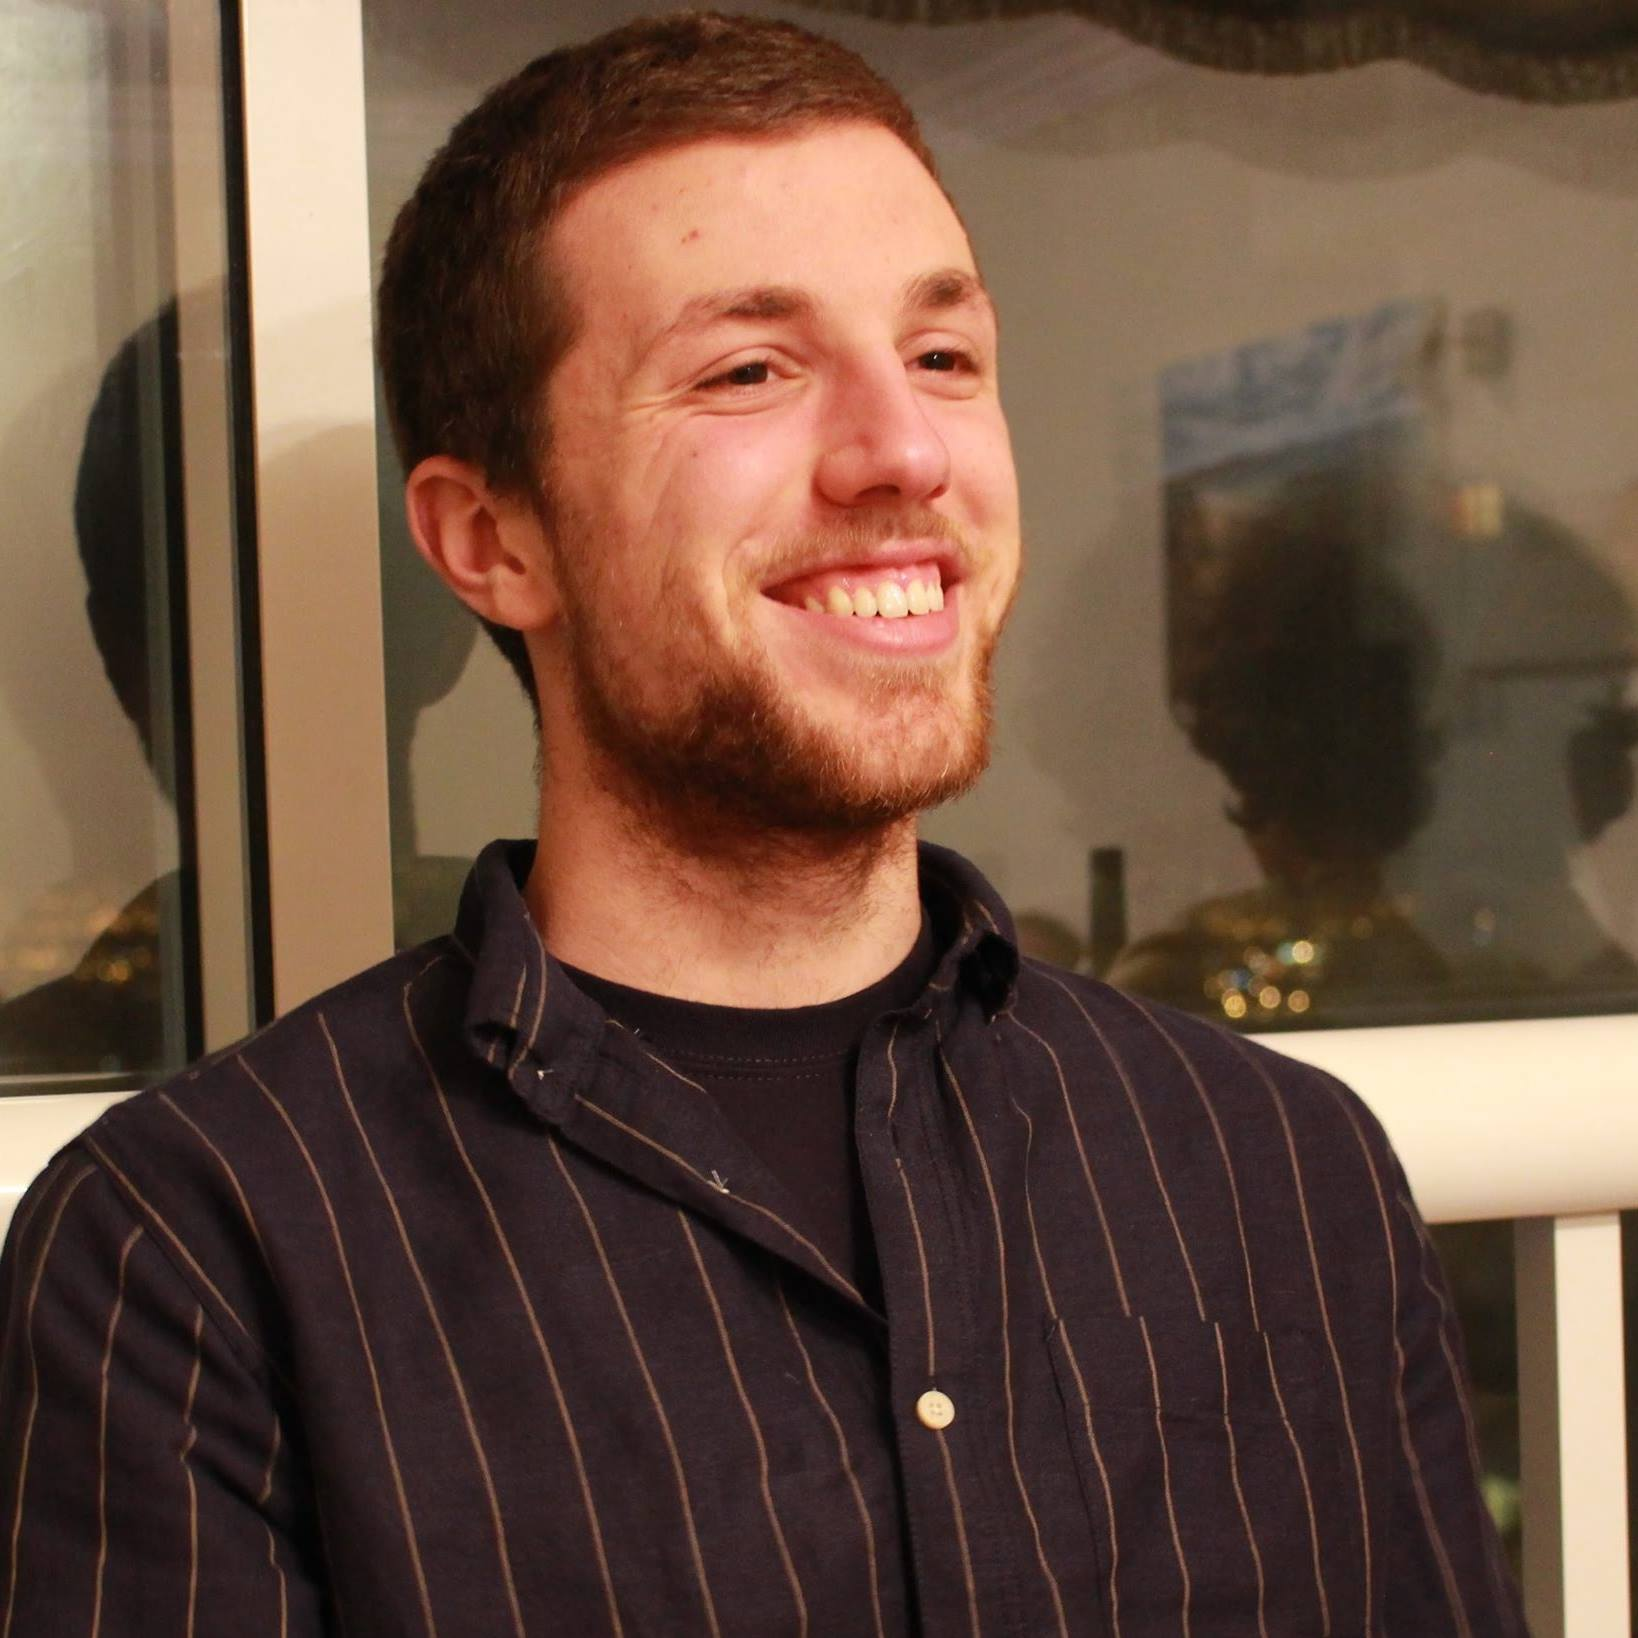
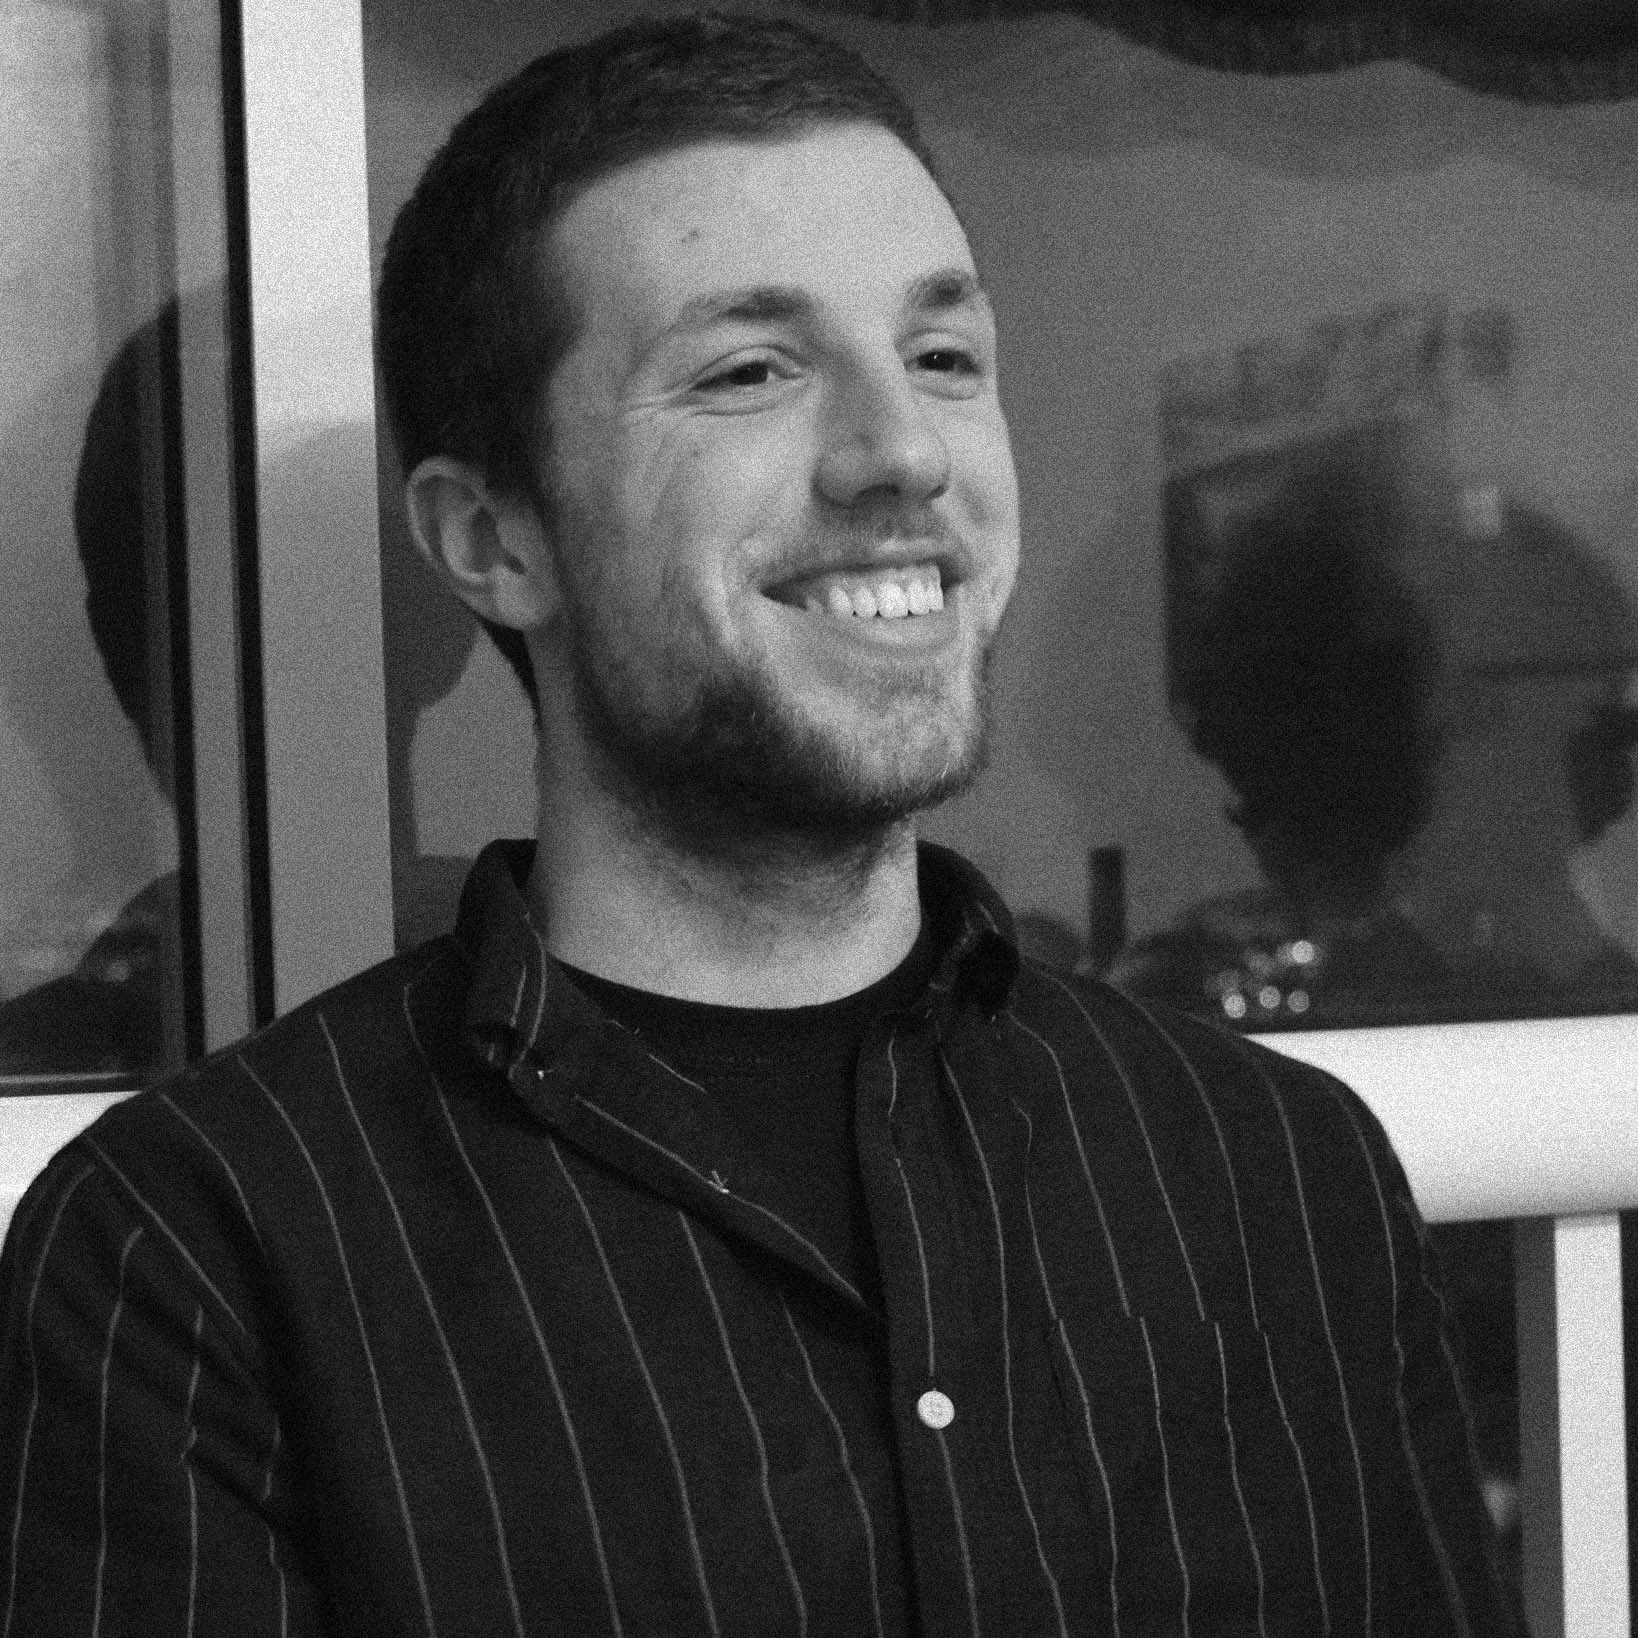
Added new images for speakers and landing page

diff --git a/landing.html b/landing.html
@@ -1,0 +1,80 @@
+<!DOCTYPE HTML>
+
+<html>
+
+<head>
+	<title>Lisbon.ai</title>
+	<meta http-equiv="Content-Type" content="text/html; charset=UTF-8">
+	<meta name="viewport" content="width=device-width, initial-scale=1">
+
+	<link rel="stylesheet" type="text/css" href="assets/stylesheets/application.css">
+	<link rel="shortcut icon" href="favicon_2.png">
+</head>
+
+<body class='flex dir-column al-center'>
+	<div class='bg-lx fw fh o-70'>
+	</div>
+	<div class='bg-gradient fw fh o-80'>
+	</div>
+	<div class='bg-black fw fh o-50'>
+	</div>
+
+	<main class='flex fvw-80 fvh dir-row wrap jus-between al-center z-index'>
+			<div class='two-thirds flex dir-column al-start'>
+				<div class='fw mx-400'>
+					<svg width="100%" viewBox="2847 9187 276 116" version="1.1" xmlns="http://www.w3.org/2000/svg" xmlns:xlink="http://www.w3.org/1999/xlink">
+						<!-- Generator: Sketch 42 (36781) - http://www.bohemiancoding.com/sketch -->
+						<desc>Created with Sketch.</desc>
+						<defs></defs>
+						<g id="Group-2-Copy" stroke="none" stroke-width="1" fill="none" fill-rule="evenodd" transform="translate(2847.000000, 9188.000000)" font-weight="bold" font-family="Monda-Bold, Monda" letter-spacing="-1.59090912" font-size="70">
+							<text id="lisbon" fill="#EAEBEC">
+								<tspan x="0.077237308" y="84">lisbo</tspan>
+								<tspan x="152.288707" y="84" letter-spacing="-2.22727275">n</tspan>
+							</text>
+							<text id=".ai" stroke="#EAEBEC" stroke-width="1.70000005" fill-opacity="0" fill="transparent">
+								<tspan x="193.296342" y="84">.a</tspan>
+								<tspan x="256.491477" y="84" letter-spacing="-2.22727275">i</tspan>
+							</text>
+						</g>
+					</svg>
+				</div>
+
+				<h2 class='ml-5 mt--20 o-90'>Where bots and humans come together.</h2>
+				<a href='index_v2.html' class='button upper mt-75 mx-400'>Learn more</a>
+			</div>
+
+			<div class='third mx-400'>
+			<svg width="100%" viewBox="0 0 331 109" version="1.1" xmlns="http://www.w3.org/2000/svg" xmlns:xlink="http://www.w3.org/1999/xlink">
+			    <!-- Generator: Sketch 42 (36781) - http://www.bohemiancoding.com/sketch -->
+			    <title>Group 2</title>
+			    <desc>Created with Sketch.</desc>
+			    <defs>
+			        <rect id="path-1" x="0" y="1" width="31" height="29"></rect>
+			        <mask id="mask-2" maskContentUnits="userSpaceOnUse" maskUnits="objectBoundingBox" x="0" y="0" width="31" height="29" fill="white">
+			            <use xlink:href="#path-1"></use>
+			        </mask>
+			        <rect id="path-3" x="300" y="0" width="31" height="29"></rect>
+			        <mask id="mask-4" maskContentUnits="userSpaceOnUse" maskUnits="objectBoundingBox" x="0" y="0" width="31" height="29" fill="white">
+			            <use xlink:href="#path-3"></use>
+			        </mask>
+			        <rect id="path-5" x="223" y="80" width="31" height="29"></rect>
+			        <mask id="mask-6" maskContentUnits="userSpaceOnUse" maskUnits="objectBoundingBox" x="0" y="0" width="31" height="29" fill="white">
+			            <use xlink:href="#path-5"></use>
+			        </mask>
+			    </defs>
+			    <g id="Page-1" stroke="none" stroke-width="1" fill="none" fill-rule="evenodd">
+			        <g id="A4-Copy-46" transform="translate(-132.000000, -68.000000)" stroke="#FFFFFF">
+			            <g id="Group-2" transform="translate(132.000000, 68.000000)">
+			                <use id="Rectangle-2" mask="url(#mask-2)" stroke-width="4.47999999" fill="#FFFFFF" xlink:href="#path-1"></use>
+			                <use id="Rectangle-2" mask="url(#mask-4)" stroke-width="8.95999998" xlink:href="#path-3"></use>
+			                <use id="Rectangle-2" mask="url(#mask-6)" stroke-width="8.95999998" xlink:href="#path-5"></use>
+			            </g>
+			        </g>
+			    </g>
+			</svg>
+		</div>
+	</main>
+
+
+
+</body>

diff --git a/schedule.html b/schedule.html
@@ -47,10 +47,12 @@
 	</header>
 
 
-	<main class='max-width mt-50 flex dir-column'>
-		<div class='separate o-10 self-center'> </div>
+	<main class='max-width mt-50 flex dir-column z-index'>
+
+		<h1>Coming soon!</h1>
+
+		<!-- <div class='separate o-10 self-center'> </div>
 		<div class='flex dir-row wrap jus-center mt-50 mb-30 fvw-80 self-center'>
-			<!-- <h3 class='fifth upper'> </h3> -->
 			<div class='fw flex dir-row jus-around wrap time-table'>
 				<div class='third'>
 					<a href="#" class='flex dir-row wrap jus-start fw mb-5'>
@@ -90,7 +92,7 @@
 				</div>
 			</div>
 		</div>
-		<div class='separate o-10 mb-30 self-center'> </div>
+		<div class='separate o-10 mb-30 self-center'> </div> -->
 	</div>
 
 </main>
